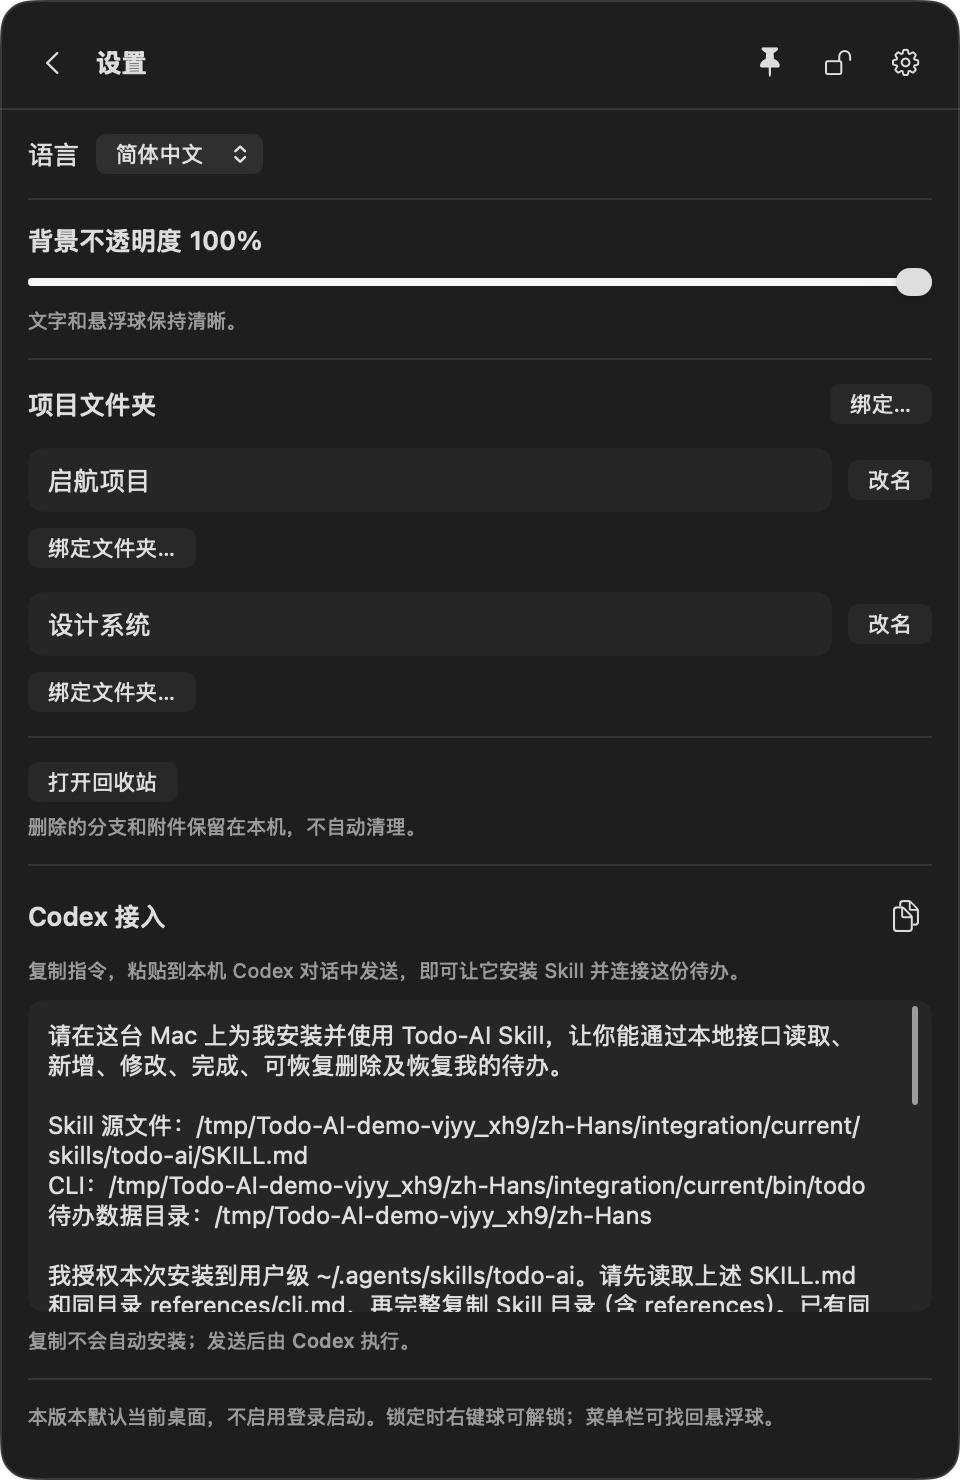
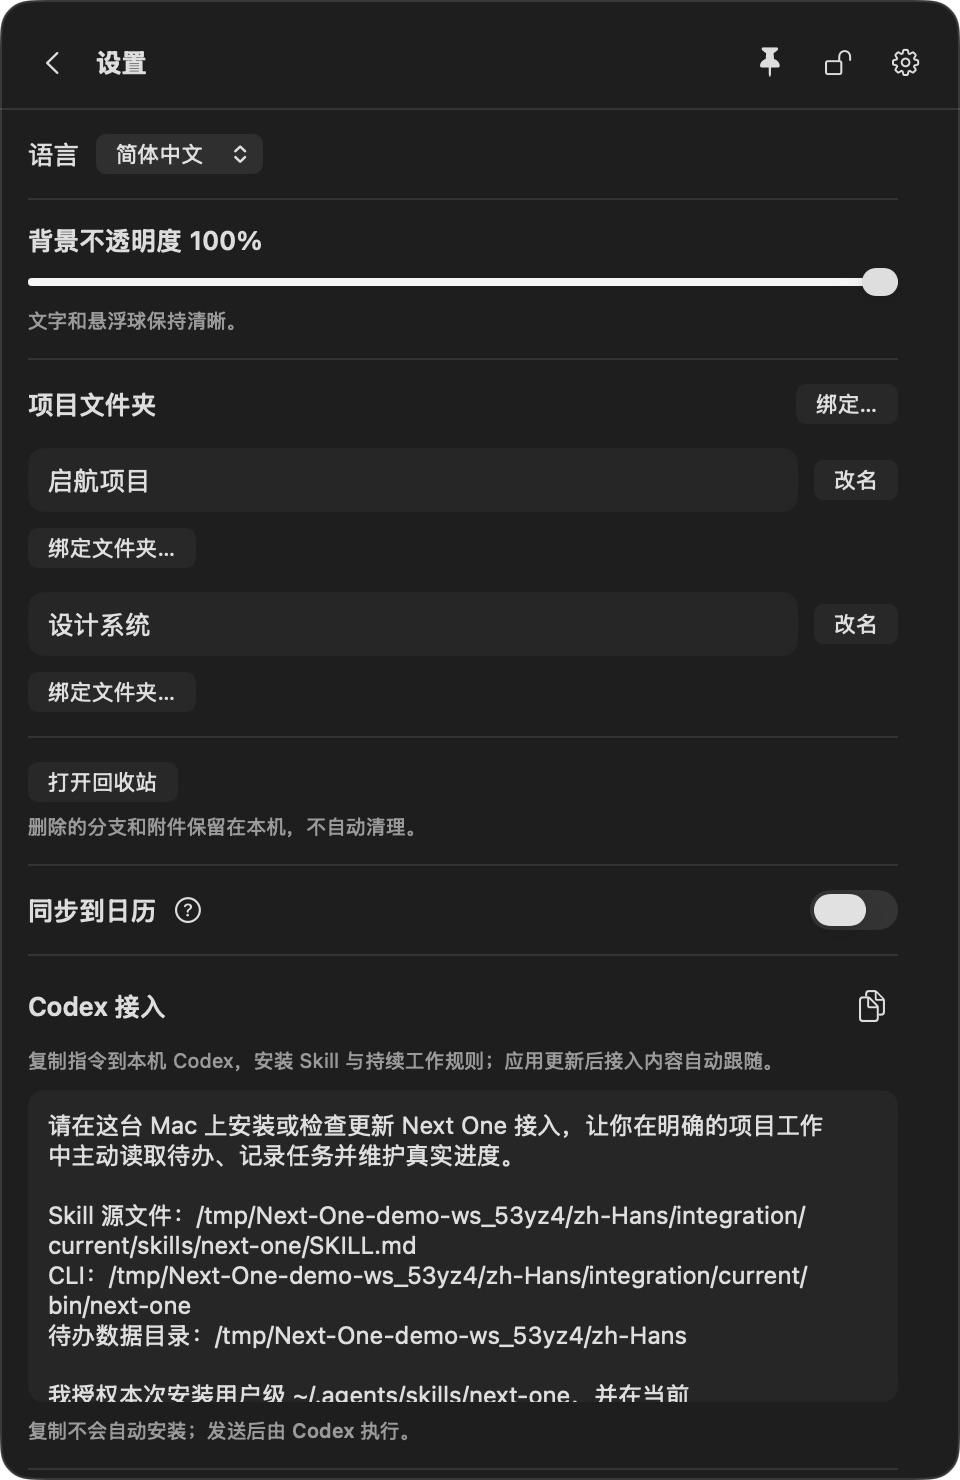
docs: refresh all localized README app screenshots

diff --git a/docs/assets/screenshots/README.md b/docs/assets/screenshots/README.md
@@ -1,9 +1,8 @@
 # README 四语截图
 
-这里的十二张图片保留为原生应用历史实拍。设置截图拍摄于品牌与路径更名前，README 已注明路径以当前应用复制结果为准。2026-10-26 新增的四语 `neo` 输入示意图独立保存在 [neo-examples](../neo-examples/README.md)，使用图片模型生成，不属于本目录实拍或功能验收证据。
-
-- 更新日期：2026-10-26。来源：主分支 `9284ffc` 源码构建的原生 Todo-AI 应用；macOS 深色界面，480 × 740 pt 面板，原始 JPEG 960 × 1480 px。
-- 每种语言使用独立演示数据，分别拍摄当前语言的实际 UI 和人工准备的同语言虚构任务；任务文本不是应用自动翻译的结果。
+- 更新日期：2026-10-27（Asia/Singapore）。12 张均已替换为当前 Next One 原生应用实拍。
+- 来源：功能提交 `60d0b82` 的 release 安装产物（当前 `ee1eff7` 仅追加文档）；复制到独立展示应用，只改 bundle 标识／名称以隔离现用实例，未改功能代码。macOS 深色界面，480 × 740 pt 面板，原始 JPEG 960 × 1480 px。
+- 每种语言使用独立 `NEXT_ONE_HOME` 和支持的 CLI 创建同语言虚构任务。没有读取或修改真实待办；未申请提醒事项权限、开启同步、安装全局 Skill 或发送安装指令。
 
 | 目录 | 语言 | 图片 |
 | --- | --- | --- |
@@ -12,8 +11,10 @@
 | `ja/` | 日本語 | `task-list.jpg`、`task-detail.jpg`、`settings.jpg` |
 | `ko/` | 한국어 | `task-list.jpg`、`task-detail.jpg`、`settings.jpg` |
 
-- 清单：项目分组、分层任务、状态、优先级与快速添加入口；详情：目标、进展、下一步、验收说明与子任务。
-- 设置：语言选择、背景不透明度滑块、处于置顶状态的图钉、Codex 安装指令及复制入口。截图为清晰展示文字使用 100% 不透明度，不作为实际透明叠加或跨应用置顶的完整验收证明。
-- 使用独立 `TODO_AI_HOME`，通过支持的 CLI 创建演示任务，不读取或修改真实待办；未安装全局 Skill、发送安装指令或修改系统语言。
-- 原生工具直接截取应用窗口，未重绘、生成或修改图像。设置里的临时目录只属于演示实例，不含个人用户名或真实项目路径；读者接入时应复制自己应用内生成的指令，不照抄截图路径。
-- 旧的根目录两张截图由这十二张语言对应截图取代；每份 README 引用自己语言的图片。截图用于产品展示，不替代全部交互和跨环境验收。
+- 清单：短编号、项目计数、分层任务、截止日期、优先级和底部统一完成区。
+- 详情：短编号、描述、状态、优先级、截止日期和子任务；演示文字由人工准备，不是应用自动翻译。
+- 设置：语言、100%背景不透明度、项目、日历同步开关与问号、当前Codex接入指令。同步保持默认关闭；图片证明入口显示，不作为系统同步已启用或送达的证据。
+- CUA 原生窗口截图直接保存，未生成、重绘或编辑图片；逐张目视检查，并核对文件格式和尺寸。部分页底部内容在滚动区域内，不代表被删除。
+- 设置路径属于 `/tmp` 下的隔离演示实例，不含真实项目或个人账户；读者应复制自己应用里的路径。
+- 展示实例已退出，现用安装和真实数据未替换；脚本与隔离目录指针留在本机 `.local/readme-refresh/`。
+- 四语 `neo` 输入示意图仍在 [neo-examples](../neo-examples/README.md)，属于明确标注的生成示意图，本轮未改动。截图不替代完整交互／跨环境验收。

diff --git a/docs/readme/README.ko.md b/docs/readme/README.ko.md
@@ -118,9 +118,9 @@ Mac/iPhone 표시, 완료 상태 회신, 일반 알림은 테스트했습니다.
 
 **준비된 안내를 복사해 Agent에게 보내세요.** **설정 → Codex 연동**의 복사 아이콘을 누르고 로컬 Codex 채팅에 전체 안내를 붙여넣어 전송하세요. 실제 경로, 설치 단계, 기존 Skill 사용자 설정 보존, 읽기 전용 검증 방법이 이미 포함되어 있습니다. 안내는 선택한 UI 언어로 제공됩니다. 전송 후 Codex가 설치를 진행하며 복사만으로는 설치되지 않습니다. 기본 안내는 Codex용이며, 다른 Coding Agent는 공개된 로컬 CLI를 사용할 수 있습니다.
 
-<p align="center"><img src="../assets/screenshots/ko/settings.jpg" alt="한국어 설정: 언어, 배경 불투명도 슬라이더, 항상 위에 표시 버튼, 복사 가능한 Codex 설치 안내" width="480"></p>
+<p align="center"><img src="../assets/screenshots/ko/settings.jpg" alt="현재 한국어 설정: 캘린더 동기화, 언어, 배경 불투명도, Codex 연동" width="480"></p>
 
-*이름 변경 전 설정 화면으로, 배치 참고용입니다. 연결할 때는 이미지 속 이전 경로 대신 현재 앱에서 복사한 경로를 사용하세요.*
+*현재 앱 실물 캡처(2026-10-27)이며 가상 데모 작업을 사용합니다. 캘린더 동기화는 기본 꺼짐 상태입니다. 설정 경로는 본인의 앱에서 복사하세요.*
 
 ## 사용자와 Agent가 함께 작업하는 방법
 

diff --git a/PROJECT_STATUS.md b/PROJECT_STATUS.md
@@ -7,6 +7,15 @@
 - 证据与限制：[AC01–AC15 验收报告](docs/acceptance/macos-floating-todo.md)
 - 使用方法：[README](README.md)
 
+## 2026-10-27 00:59 | readme-screenshot-refresh | 四语README更新当前应用实拍
+
+- 状态：12张新截图拍摄、替换及视觉检查完成。
+- 需求与范围：用户指出README截图旧，要求重新截图；更新英／中／日／韩的清单、详情和设置。
+- 改动：当前release副本配独立演示数据，拍摄短编号、统一完成区、日期与日历同步设置；替换12张JPEG，更新四语图片说明／alt及素材来源记录，删除历史截图提示。
+- 验证与证据：12张原生截图逐张目视检查，格式JPEG、960×1480；相对图片链接及差异检查通过。日历同步默认关闭，未申请权限或向系统写入演示提醒，未改真实任务、应用设置或安装。截图脚本／目录指针在 `.local/readme-refresh/`。
+- 未完成/阻塞/下一步：无；生成的neo输入示意图保持原有说明，本轮不把静态图作为同步或穿透验收。
+- 关联文档与 Git 状态：[截图来源](docs/assets/screenshots/README.md)、[中文README](docs/readme/README.zh-CN.md)；main，仅提交截图和相关文档，沿用本会话推送授权。
+
 ## 2026-10-27 00:50 | readme-recent-features | 四语README补充提醒事项同步与近期功能
 
 - 状态：文档更新、事实核对与链接检查完成。

diff --git a/README.md b/README.md
@@ -128,9 +128,9 @@ Mac/iPhone Calendar display, completion feedback, and an ordinary notification h
 
 **Start sharing tasks with a copy and a paste.** In **Settings → Codex integration**, click the copy icon and paste the complete instruction into a local Codex chat. The app prepares the paths and setup steps, including preserving existing Skill customizations and read-only verification. The instruction follows your selected UI language. Sending it asks Codex to perform the setup; copying alone does not install anything. This built-in instruction targets Codex; other coding agents can use the documented local CLI.
 
-<p align="center"><img src="docs/assets/screenshots/en/settings.jpg" alt="English settings with language selection, background opacity slider, pin control and copyable Codex setup instructions" width="480"></p>
+<p align="center"><img src="docs/assets/screenshots/en/settings.jpg" alt="Current English settings with Calendar sync, language, background opacity and Codex setup" width="480"></p>
 
-*Historical settings capture from before the rename; use the paths copied from your current app, not the paths pictured here.*
+*Current app capture (2026-10-27), using fictional demo tasks. Calendar sync is shown in its default off state. Copy setup paths from your own app, not this demo.*
 
 ## How you and the agent work together
 

diff --git a/docs/readme/README.zh-CN.md b/docs/readme/README.zh-CN.md
@@ -126,9 +126,9 @@ macOS 14+ · SwiftUI + AppKit · 本地存储 · Codex Skill + CLI
 
 **现成指令，一键复制给 Agent。** 打开**设置 → Codex 接入**，点击复制图标，把完整指令粘贴到本机 Codex 对话中发送。应用已准备好实际路径、安装步骤、保留已有 Skill 自定义内容的要求和只读验证方式，省去自己查路径、拼指令的过程。指令跟随当前界面语言；发送后才由 Codex 执行安装，单纯复制不会安装。当前内置指令面向 Codex，其他 Coding Agent 可通过公开的本地 CLI 接入。
 
-<p align="center"><img src="../assets/screenshots/zh-CN/settings.jpg" alt="中文设置：语言切换、背景不透明度滑块、置顶按钮和可复制的 Codex 安装指令" width="480"></p>
+<p align="center"><img src="../assets/screenshots/zh-CN/settings.jpg" alt="当前中文设置：日历同步、语言、背景不透明度和 Codex 接入" width="480"></p>
 
-*此设置截图拍摄于更名前，仅展示布局；接入时复制当前应用生成的路径，不照抄图中旧路径。*
+*当前版本实拍（2026-10-27），使用虚构演示任务；日历同步展示默认关闭状态。接入时请复制自己应用生成的路径，不照抄演示路径。*
 
 ## 你与 Agent 如何一起工作
 
